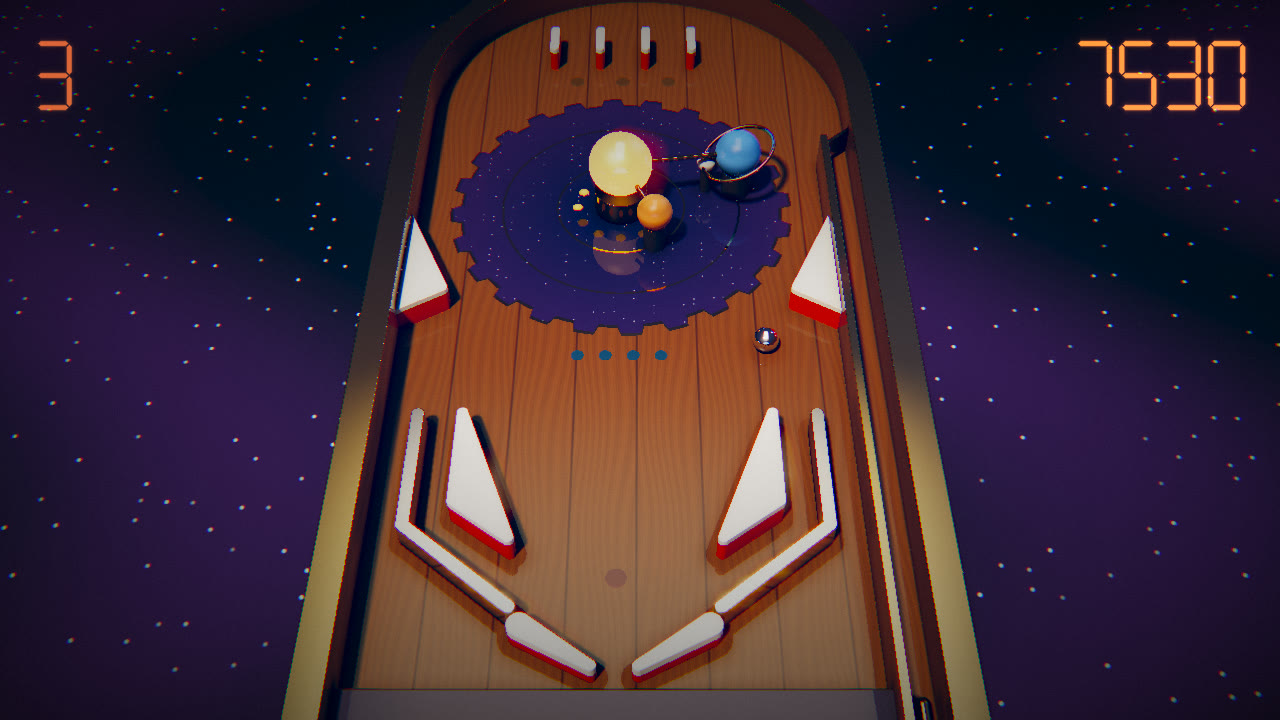
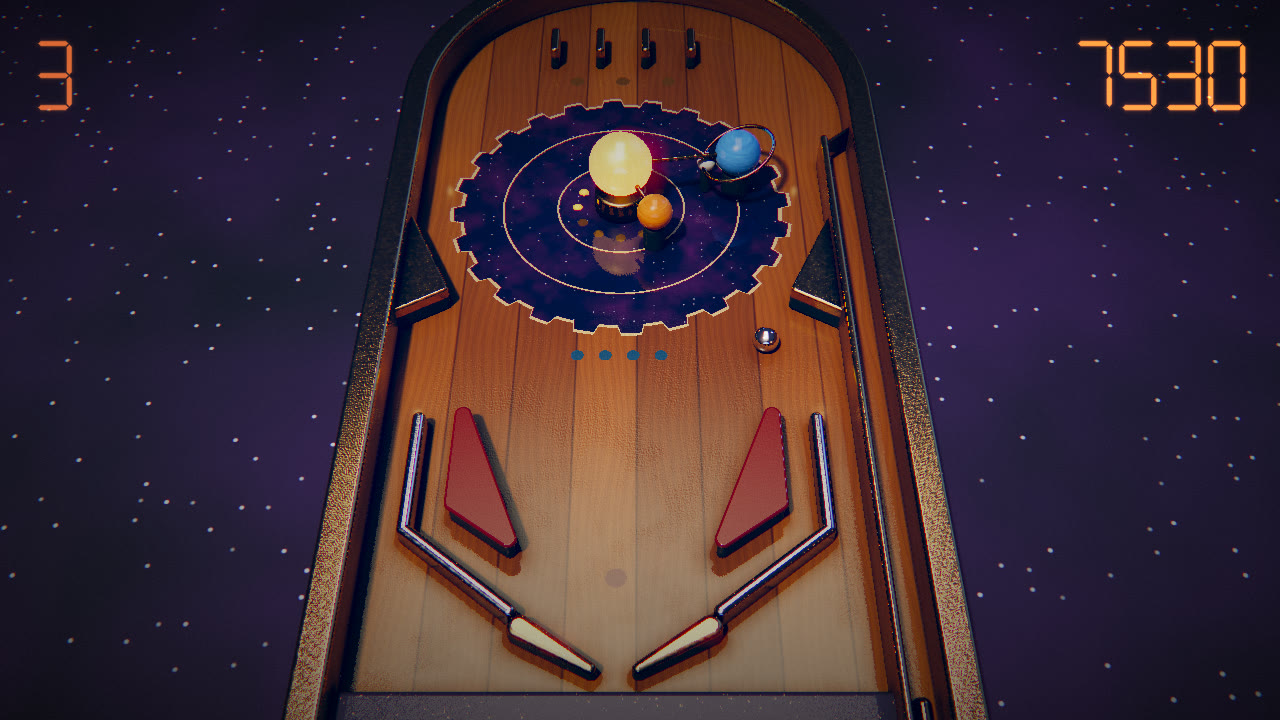
README: materials and lights, screenshots (6949 bytes)

diff --git a/README.md b/README.md
@@ -12,8 +12,8 @@ the rendering use the same shapes, including the planets that orbit the sun.
 
 ## Current state
 
-**Size:** 6526 bytes (Release), 6695 bytes (Snapshot, the fast build used to
-follow the size), out of 8192. History in `tools/sizes.txt`.
+**Size:** 6949 bytes (Snapshot, the fast build used to follow the size;
+Release is about 170 bytes smaller), out of 8192. History in `tools/sizes.txt`.
 
 **Controls:** left / right arrows: flippers. Down: pull the plunger, release to
 launch. Up: nudge. Escape: quit.
@@ -32,10 +32,13 @@ launch. Up: nudge. Escape: quit.
 * Lamps: top lanes, multiplier, ball save (blinks faster when it ends), a clock
   dial with a light chase around the sun.
 * Rendering: raymarched 3D with a warm key light (soft shadows), a cool fill
-  light and the sun as a point light; per-material roughness, one reflection
-  bounce, ambient occlusion. Lacquered wood, brass inlays, a starry night sky
-  painted under the orrery, lamp inserts as colored glass, banded planets,
-  chrome ball. The table floats in a starfield.
+  light, the sun as a point light and four warm GI lamps along the walls;
+  per-material roughness, reflections blurred by roughness, ambient occlusion.
+  Rounded shapes; brass flippers and posts with black rubber, ruby plastic
+  sling covers, chrome rails and ball; lacquered wood planks, gilded inlays, a
+  starry night sky painted under the orrery, lamp inserts as colored glass.
+  Noise everywhere (tarnish, stains, smudges, nebulae) against a too clean
+  look. The table floats in a starfield.
 * Ball light trail: glows from blue to orange when the ball is fast.
 * Post: thresholded mipmap bloom, lens ghost, chromatic aberration, color
   grading, vignette, grain.
